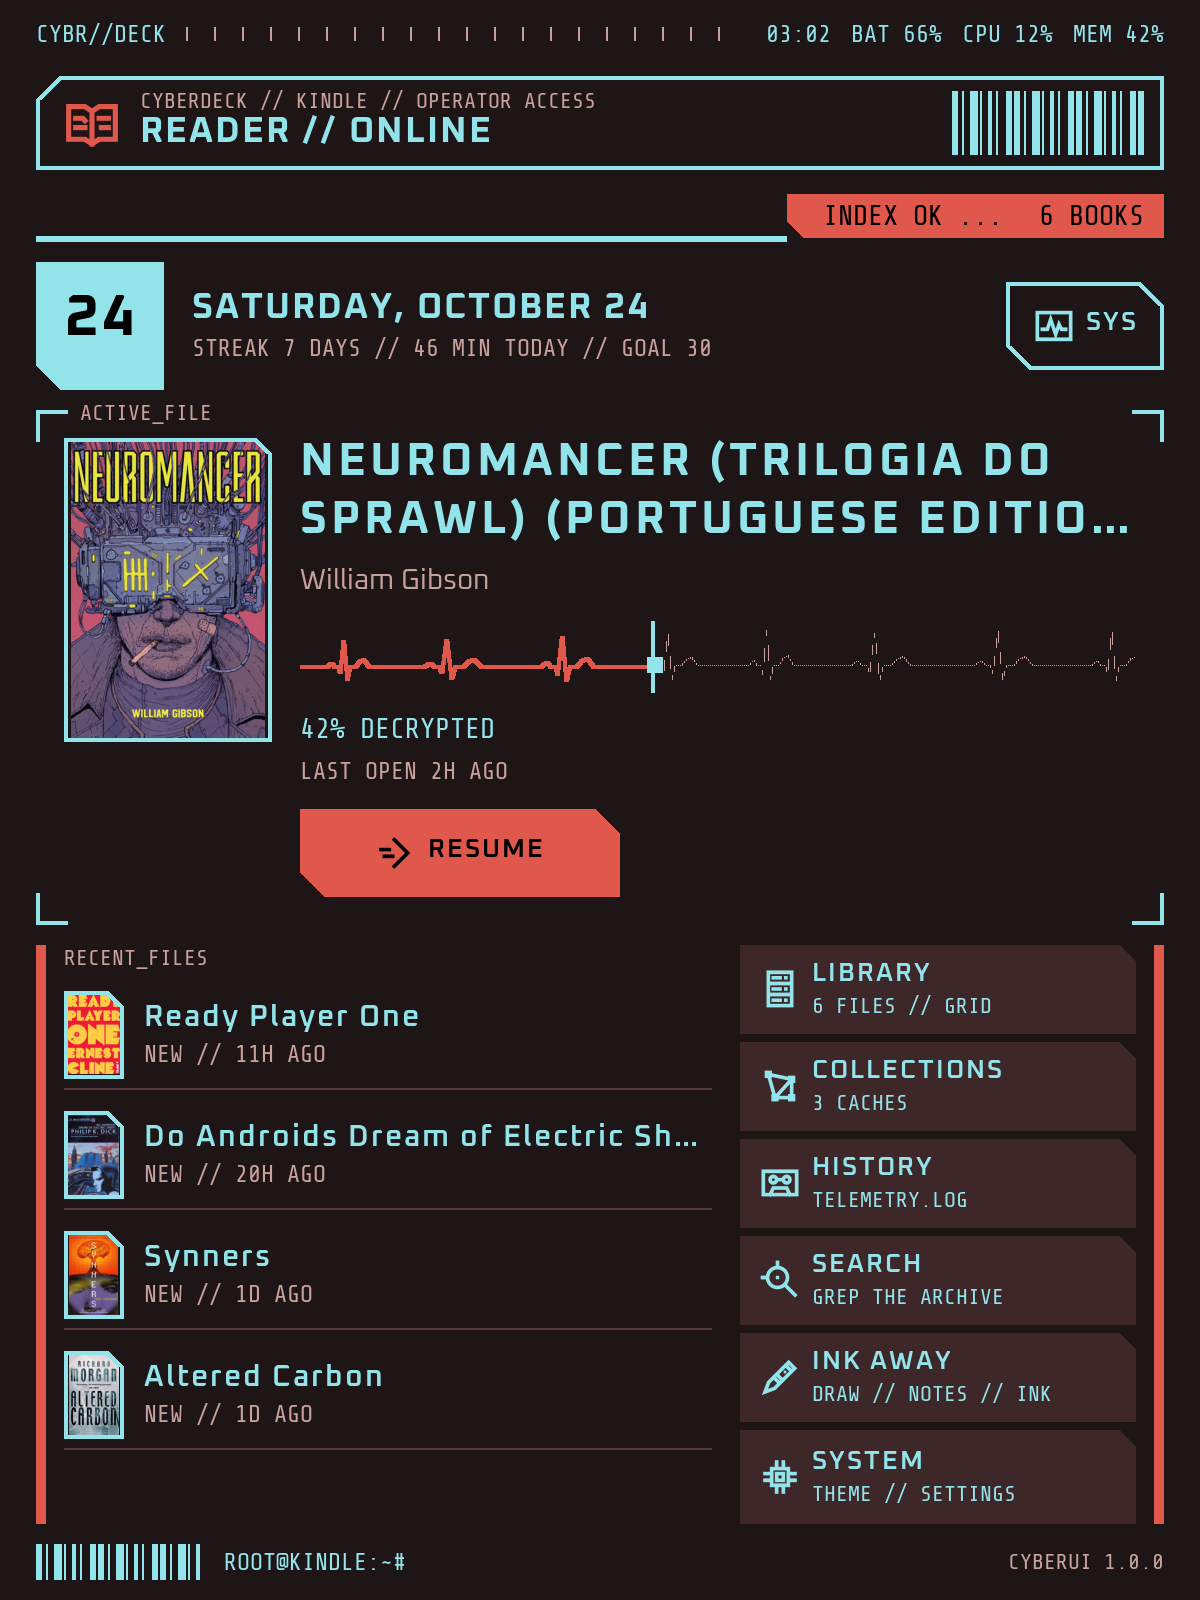
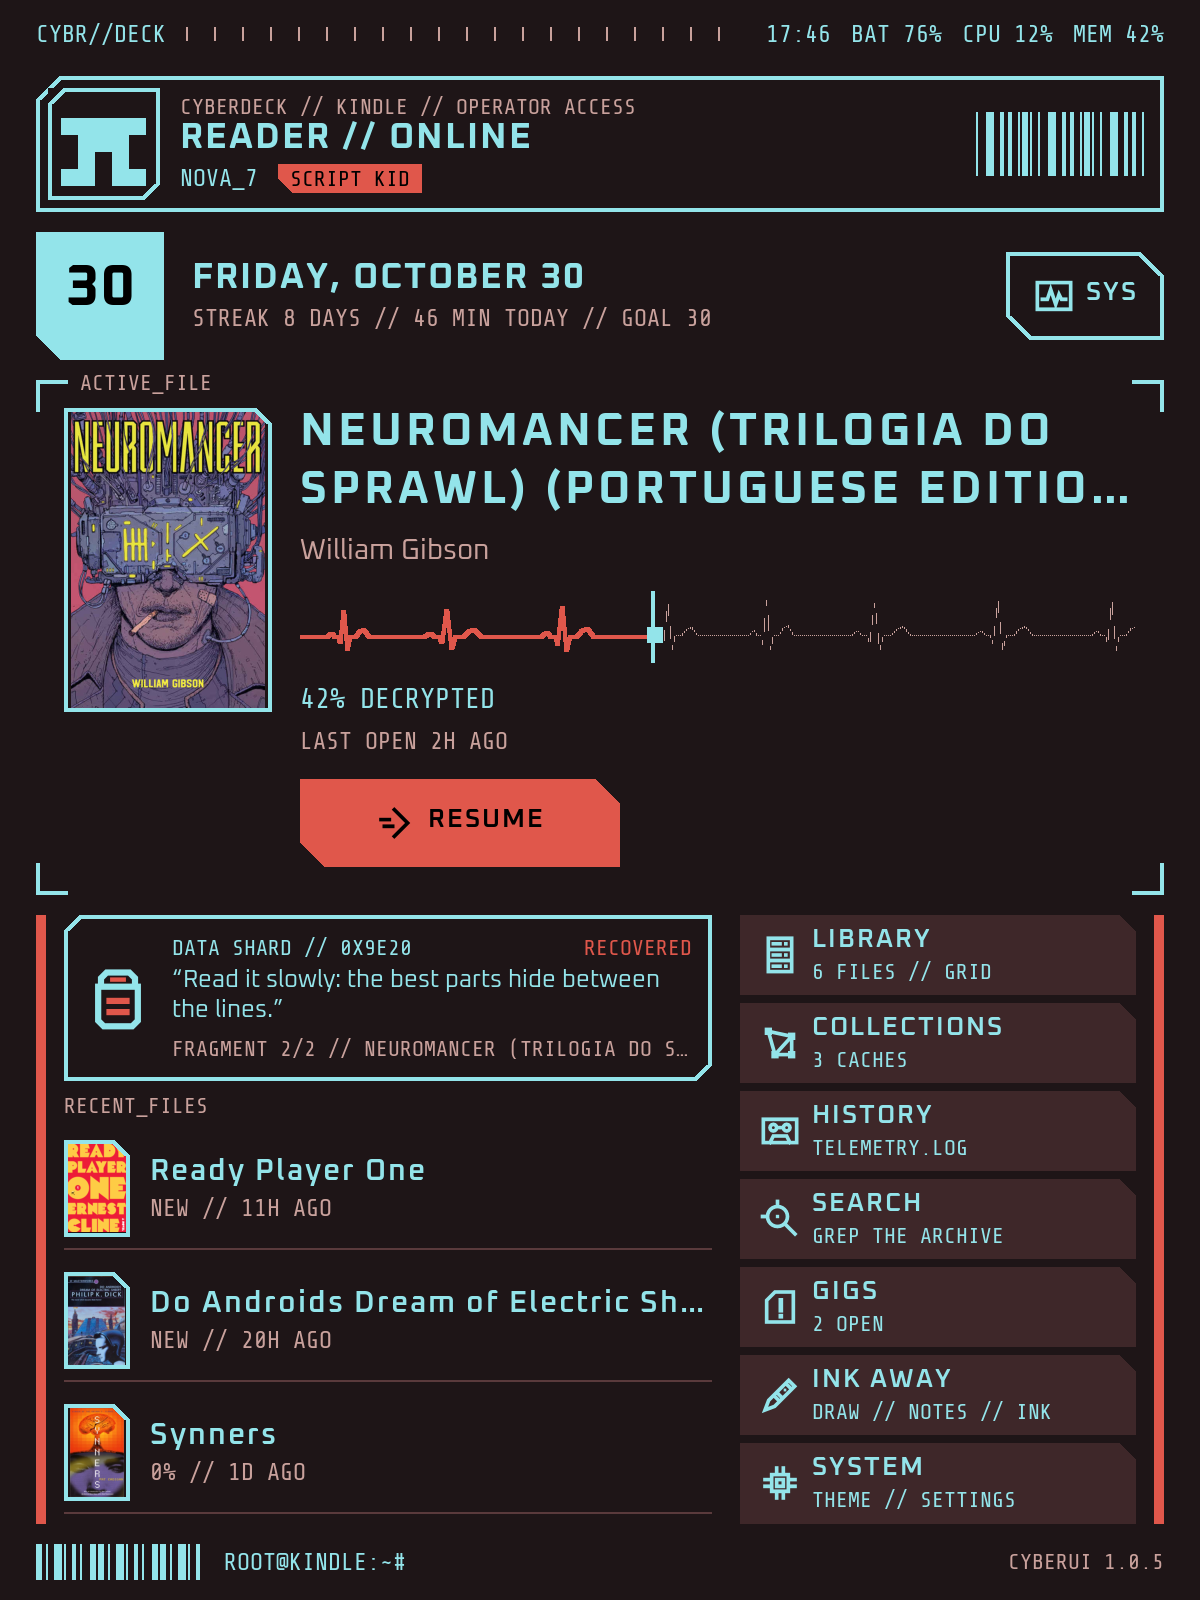
README: new screenshots and text for the operator card, gigs, shop, shards and languages

diff --git a/tools/readme/banners.py b/tools/readme/banners.py
@@ -87,8 +87,8 @@ def icon_paths(name):
 
 def launcher(ui_font):
     items = [("library", "LIBRARY"), ("collections", "COLLECTIONS"), ("history", "HISTORY"),
-             ("search", "SEARCH"), ("pen", "INK AWAY"), ("settings", "SYSTEM")]
-    cell, W, H = 150, 150 * 6, 92
+             ("search", "SEARCH"), ("gigs", "GIGS"), ("pen", "INK AWAY"), ("settings", "SYSTEM")]
+    cell, W, H = 128, 128 * 7, 92
     body = []
     for i, (icon, label) in enumerate(items):
         x = i * cell + cell / 2
@@ -104,7 +104,7 @@ def launcher(ui_font):
             body.append(f'<g transform="translate({x - 24} 8) scale(2)">{path}</g>')
         td, tw = text_path(ui_font, label, 15, 0, 0, 1.5)
         body.append(f'<path d="{td}" fill="{MUTED}" transform="translate({x - tw / 2} 84)"/>')
-    return svg(W, H, "".join(body), "The launcher: Library, Collections, History, Search, Ink Away and System")
+    return svg(W, H, "".join(body), "The launcher: Library, Collections, History, Search, Gigs, Ink Away and System")
 
 
 if __name__ == "__main__":

diff --git a/README.md b/README.md
@@ -13,7 +13,8 @@ CyberUI is a **cyberpunk home screen** for KOReader, built to be fast on e-ink.
 
 * **A home that feels like a deck**: the book you are reading, your recent books, your streak and a launcher, with a status bar of live readouts.
 * **A library you can work in**: folders, ASCII covers, search, collections, a reading log and a trash, with rename, move and delete that take your reading data along.
-* **Your look**: seven colour schemes and your own, fourteen cyberpunk font sets, ASCII covers and sleep screens, and KOReader's own menu restyled to match.
+* **A reason to read the backlog**: an operator ID card, Gigs that pay eddies for books you never opened, and a shop where eddies buy new looks.
+* **Your look**: seven colour schemes and your own, fourteen cyberpunk font sets, ASCII covers and sleep screens, KOReader's own menu restyled to match, and ten languages.
 
 Home comes back the moment you close a book, in a single screen refresh.
 
@@ -21,9 +22,9 @@ Home comes back the moment you close a book, in a single screen refresh.
 
 <table>
   <tr>
-    <td width="33%" valign="top"><a href="assets/screenshots/01-home.png"><img src="assets/screenshots/01-home.png" alt="Home"></a><br><sub>Home: the book you are reading with Resume, recent books and a launcher, in Neon.</sub></td>
-    <td width="33%" valign="top"><a href="assets/screenshots/02-library.png"><img src="assets/screenshots/02-library.png" alt="Library"></a><br><sub>The library: ASCII covers, folders stacked under their first book, filters and sort.</sub></td>
-    <td width="33%" valign="top"><a href="assets/screenshots/03-menu.png"><img src="assets/screenshots/03-menu.png" alt="KOReader's menu"></a><br><sub>KOReader's own menu, restyled: every setting and plugin, with the Deck tab first.</sub></td>
+    <td width="33%" valign="top"><a href="assets/screenshots/01-home.png"><img src="assets/screenshots/01-home.png" alt="Home"></a><br><sub>Home: the book you are reading, a recovered highlight, recent books and a launcher, in Neon.</sub></td>
+    <td width="33%" valign="top"><a href="assets/screenshots/02-gigs.png"><img src="assets/screenshots/02-gigs.png" alt="Gigs"></a><br><sub>Gigs: books you never opened become paid work, priced by length and how long they waited.</sub></td>
+    <td width="33%" valign="top"><a href="assets/screenshots/03-card.png"><img src="assets/screenshots/03-card.png" alt="Operator ID card"></a><br><sub>Your operator ID card, with your eddies, in a frame, backdrop and flair from the shop.</sub></td>
   </tr>
 </table>
 
@@ -31,19 +32,28 @@ Home comes back the moment you close a book, in a single screen refresh.
 
 <table>
   <tr>
-    <td width="33%" valign="top"><a href="assets/screenshots/04-details.png"><img src="assets/screenshots/04-details.png" alt="Book details"></a><br><sub>A book's details: facts, progress, a paged synopsis, and every action in reach.</sub></td>
-    <td width="33%" valign="top"><a href="assets/screenshots/05-search.png"><img src="assets/screenshots/05-search.png" alt="Search"></a><br><sub>Search as you type with CyberUI's own keyboard.</sub></td>
+    <td width="33%" valign="top"><a href="assets/screenshots/04-library.png"><img src="assets/screenshots/04-library.png" alt="Library"></a><br><sub>The library: ASCII covers, folders stacked under their first book, filters and sort.</sub></td>
+    <td width="33%" valign="top"><a href="assets/screenshots/05-menu.png"><img src="assets/screenshots/05-menu.png" alt="KOReader's menu"></a><br><sub>KOReader's own menu, restyled: every setting and plugin, with the Deck tab first.</sub></td>
     <td width="33%" valign="top"><a href="assets/screenshots/06-collections.png"><img src="assets/screenshots/06-collections.png" alt="Collections"></a><br><sub>Collections, each a fan of its books.</sub></td>
   </tr>
   <tr>
-    <td width="33%" valign="top"><a href="assets/screenshots/07-log.png"><img src="assets/screenshots/07-log.png" alt="Reading log"></a><br><sub>The reading log: your week, your streak and each session.</sub></td>
+    <td width="33%" valign="top"><a href="assets/screenshots/07-log.png"><img src="assets/screenshots/07-log.png" alt="Reading log"></a><br><sub>The reading log: your week, streaks, a calendar that can be a city skyline, and your goal.</sub></td>
     <td width="33%" valign="top"><a href="assets/screenshots/08-diagnostics.png"><img src="assets/screenshots/08-diagnostics.png" alt="Diagnostics"></a><br><sub>Diagnostics: battery, processor, memory, storage, Wi-Fi, screen and uptime.</sub></td>
     <td width="33%" valign="top"><a href="assets/screenshots/09-look.png"><img src="assets/screenshots/09-look.png" alt="Colour schemes"></a><br><sub>Seven colour schemes and your own, in light and dark.</sub></td>
   </tr>
   <tr>
     <td width="33%" valign="top"><a href="assets/screenshots/10-covers.png"><img src="assets/screenshots/10-covers.png" alt="ASCII cover settings"></a><br><sub>Covers as ASCII art in eight character sets, as pictures or as title cards.</sub></td>
     <td width="33%" valign="top"><a href="assets/screenshots/11-sleep.png"><img src="assets/screenshots/11-sleep.png" alt="ASCII sleep screen"></a><br><sub>The sleep screen in ASCII: your book's cover, a picture, or anything KOReader shows.</sub></td>
-    <td width="33%" valign="top"><a href="assets/screenshots/12-landscape.png"><img src="assets/screenshots/12-landscape.png" alt="Landscape"></a><br><sub>Every screen works in landscape too.</sub></td>
+    <td width="33%" valign="top"><a href="assets/screenshots/12-shards.png"><img src="assets/screenshots/12-shards.png" alt="Data shards"></a><br><sub>Data shards: every highlight you made, recovered as a fragment.</sub></td>
+  </tr>
+  <tr>
+    <td width="33%" valign="top"><a href="assets/screenshots/13-shop.png"><img src="assets/screenshots/13-shop.png" alt="Shop"></a><br><sub>The shop: five styles to a category, each shown as it really looks, with its price.</sub></td>
+    <td width="33%" valign="top"><a href="assets/screenshots/14-styles.png"><img src="assets/screenshots/14-styles.png" alt="Shop styles"></a><br><sub>Twenty styles: card frames, backdrops, handle flairs and jack-in cards.</sub></td>
+    <td width="33%" valign="top"><a href="assets/screenshots/15-jackin.png"><img src="assets/screenshots/15-jackin.png" alt="Jack-in cards"></a><br><sub>Jack-in cards, shown while a book opens.</sub></td>
+  </tr>
+  <tr>
+    <td width="33%" valign="top"><a href="assets/screenshots/16-gigs.png"><img src="assets/screenshots/16-gigs.png" alt="Gigs story"></a><br><sub>Take a gig, read, get paid as you go, and see it on home.</sub></td>
+    <td width="33%" valign="top"><a href="assets/screenshots/17-languages.png"><img src="assets/screenshots/17-languages.png" alt="Languages"></a><br><sub>Ten languages: Turkish, Portuguese (both), Spanish, Italian, French, German, Russian, Polish and Greek.</sub></td>
   </tr>
 </table>
 
@@ -52,16 +62,26 @@ Home comes back the moment you close a book, in a single screen refresh.
 
 ### Home
 
-<img src="assets/readme-launcher.svg" alt="The launcher: Library, Collections, History, Search, Ink Away and System">
+<img src="assets/readme-launcher.svg" alt="The launcher: Library, Collections, History, Search, Gigs, Ink Away and System">
 
 | | |
 |---|---|
 | **Active file** | The book you are reading, with its cover, progress and Resume. Tap a recent book to bring it here; open it from the panel. |
-| **Back from a book** | Home shows first and KOReader closes the book behind it, so coming home is one quick refresh. KOReader's own Home action takes the same way while CyberUI is your home, and the "CyberUI home" action goes on any gesture. |
+| **Back from a book** | Home shows at once and the book stays open underneath, so coming home and resuming the same book are instant (System, Speed, on by default); KOReader closes it later. KOReader's own Home action takes the same way while CyberUI is your home, and the "CyberUI home" action goes on any gesture. |
 | **Banner** | A set line, a greeting with your handle, a random highlight from your books, the device's status or your own words, with a top line of its own. Hold it to change it. |
 | **Status bar** | Your tag, then up to six readouts in the order you choose: clock, date, battery, Wi-Fi, frontlight, processor, memory, storage, book progress, uptime. |
 | **Progress** | Segments, an ASCII bar, a heartbeat trace, a scan line or an equalizer, each marking exactly where you are. Hold the bar to switch. |
 | **Diagnostics** | Battery and drain, processor and memory, storage, Wi-Fi, screen and light, uptime and the device at a glance, behind the SYS button. |
+
+### Operator, gigs and shop
+
+| | |
+|---|---|
+| **Operator ID card** | A handle, a rank earned from your reading hours, an ID code and barcode, your totals and a photo from the device. Tap your face on home to open it; save it as a picture. |
+| **Gigs** | A book left unread for a week becomes a gig. Opening it takes the gig and fixes the price (about a fifth of an eddy per page, up to double for long waits). Every 10% you read pays a twentieth of it, and finishing pays the other half. Home tells you what each reading paid. |
+| **Eddies** | Earned only by reading gigs. They sit in a signed ledger, so editing the settings file does not add any, and your balance shows on the ID card. |
+| **Shop** | Spend eddies on looks, never anything else: card frames, backdrops, handle flairs and jack-in cards, five of each with one free. Every style is previewed before you buy. |
+| **Data shards** | Your highlights as recovered fragments on home and in their own screen; open the book at the highlight. |
 
 ### Library
 
@@ -83,6 +103,7 @@ Home comes back the moment you close a book, in a single screen refresh.
 | **ASCII covers** | Covers drawn as character art, in colour on colour screens, in Braille, Classic, Detailed, Blocks, Binary, Hex, Glitch or your book's own title. Image covers and title cards too, in four sizes. |
 | **ASCII sleep screen** | KOReader's sleep screen redrawn in ASCII: book covers by default, or custom images, or everything. Transparent pictures let your book or home show through, and KOReader's message stays crisp. |
 | **Icons** | A set of its own, drawn for CyberUI, with small lights in your accent colour. |
+| **Languages** | Turkish, Brazilian and European Portuguese, Spanish, Italian, French, German, Russian, Polish and Greek, following KOReader's language. Translations are plain `.po` files in `l10n`, so a fix needs no code. |
 
 ### KOReader's menu
 
